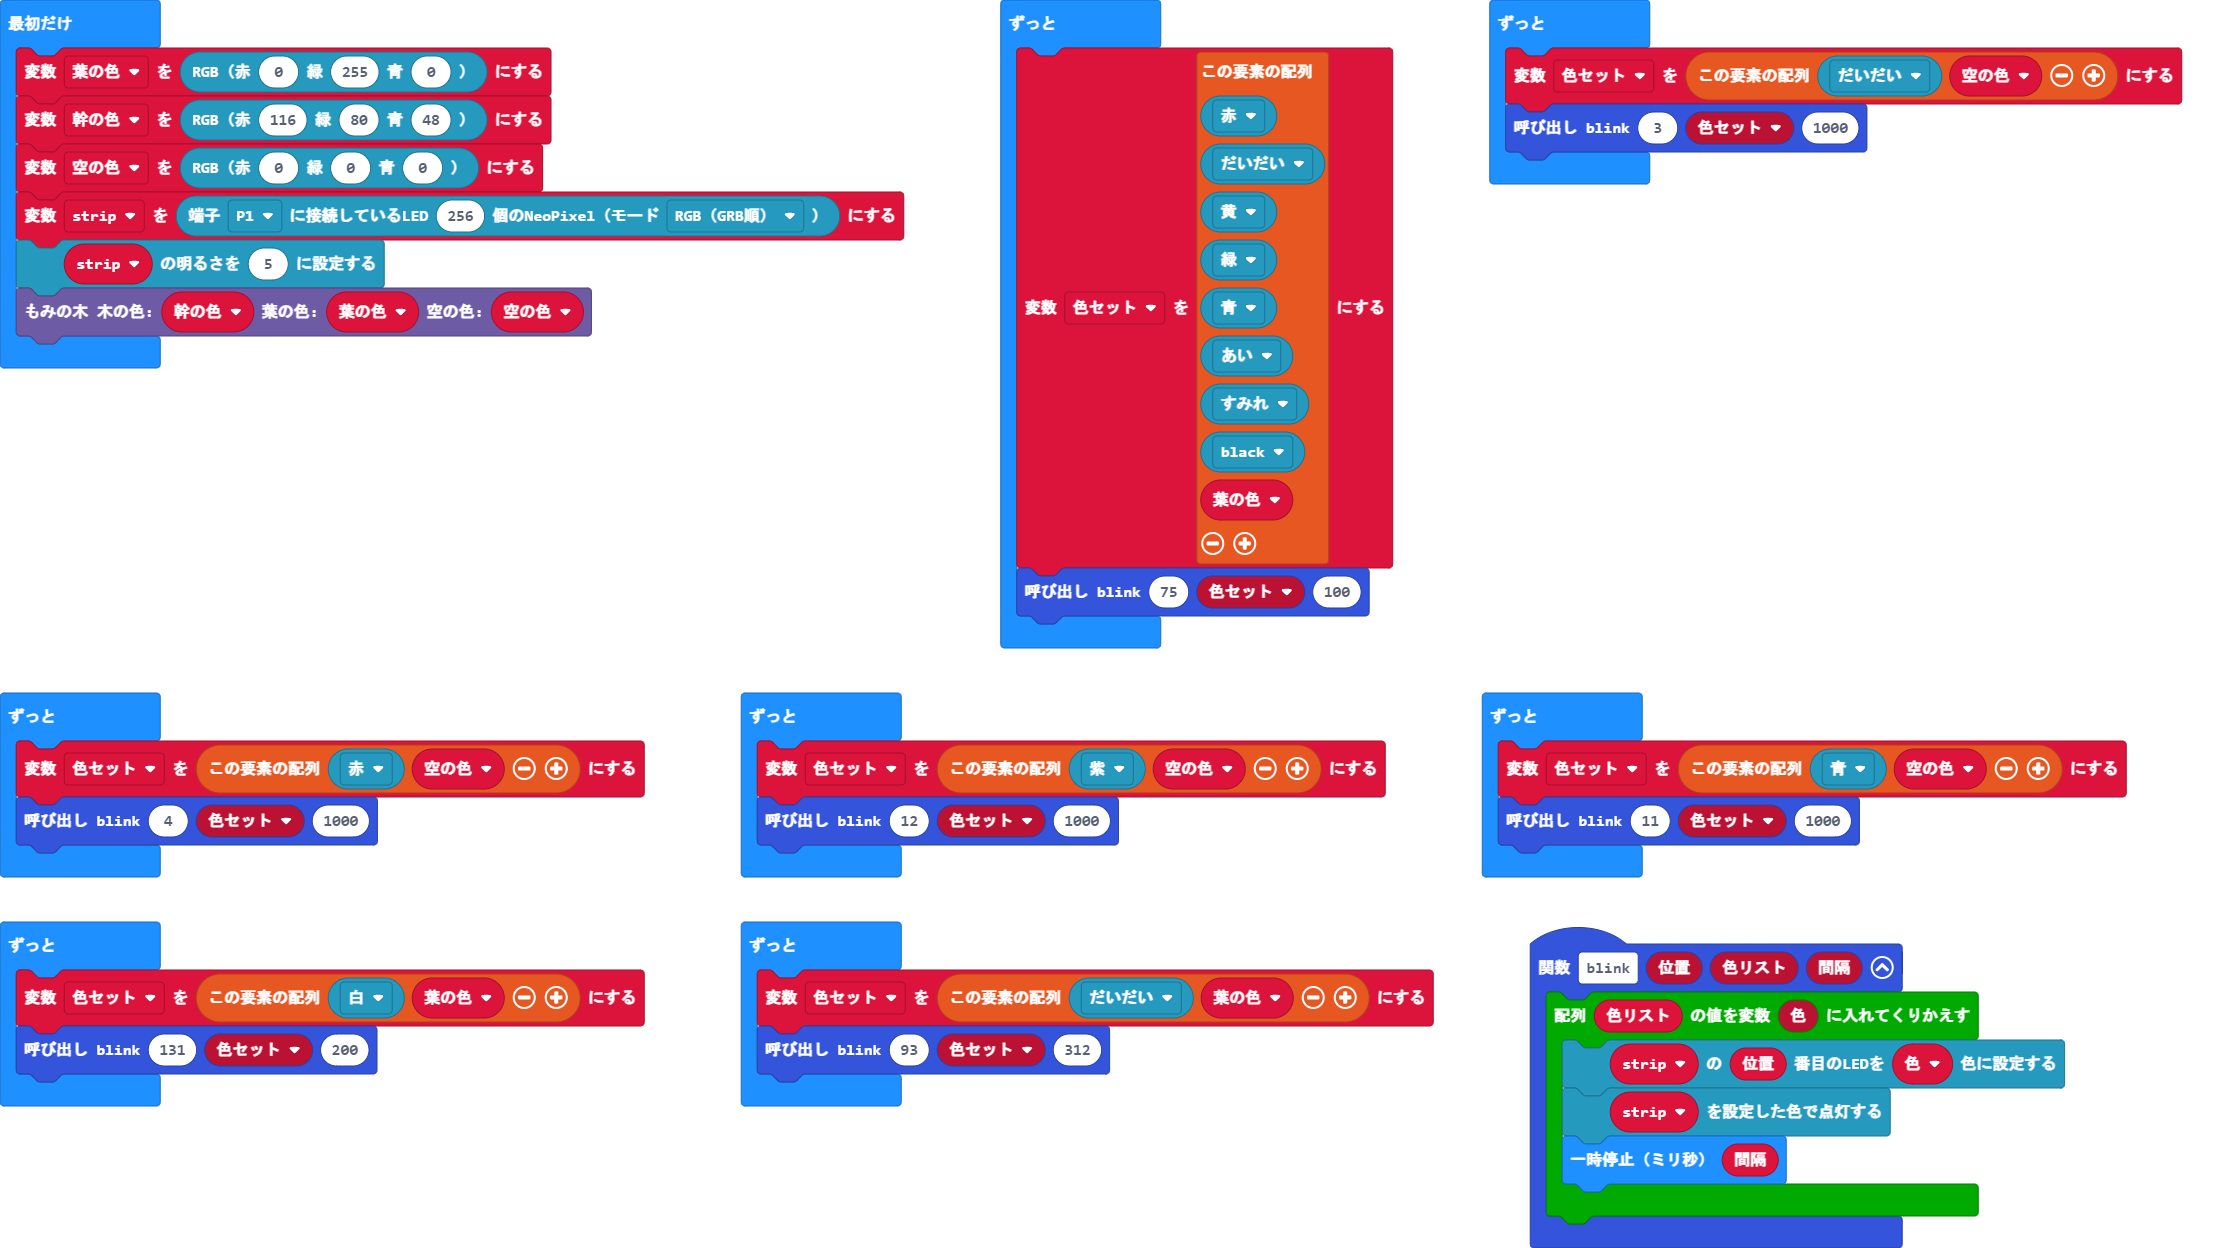
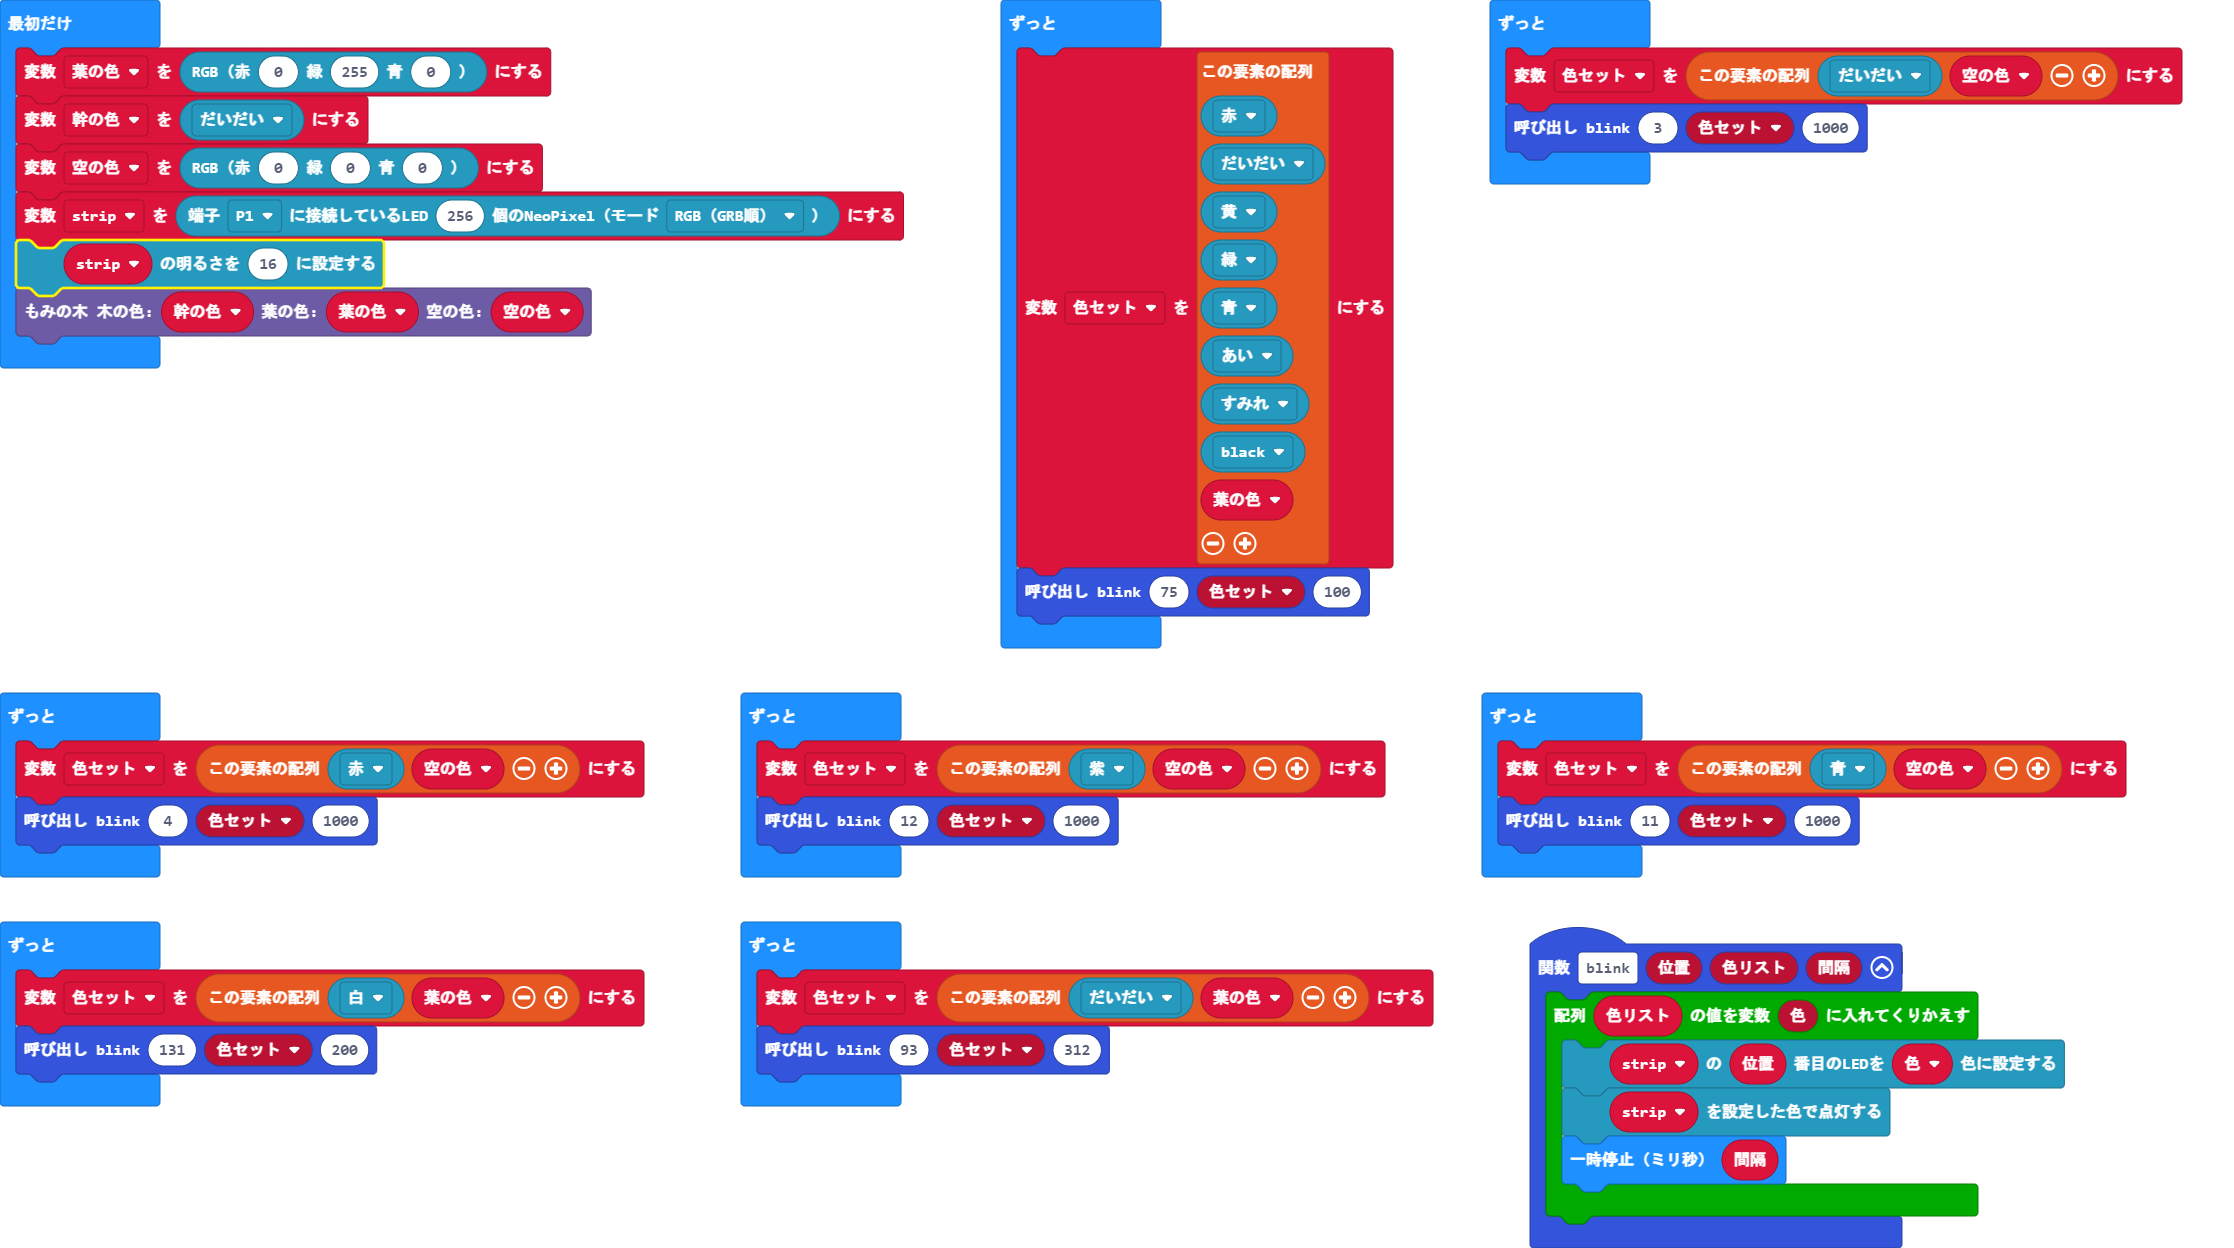
更新 main.blocks, main.ts

diff --git a/main.ts b/main.ts
@@ -8,10 +8,10 @@ function blink (位置: number, 色リスト: any[], 間隔: number) {
 let 色セット: number[] = []
 let strip: neopixel.Strip = null
 let 葉の色 = neopixel.rgb(0, 255, 0)
-let 幹の色 = neopixel.rgb(116, 80, 48)
+let 幹の色 = neopixel.colors(NeoPixelColors.Orange)
 let 空の色 = neopixel.rgb(0, 0, 0)
 strip = neopixel.create(DigitalPin.P1, 256, NeoPixelMode.RGB)
-strip.setBrightness(5)
+strip.setBrightness(16)
 tree.firTree(幹の色, 葉の色, 空の色)
 basic.forever(function () {
     色セット = [
